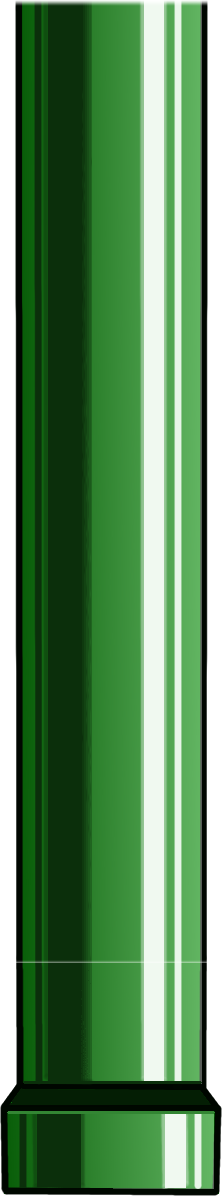
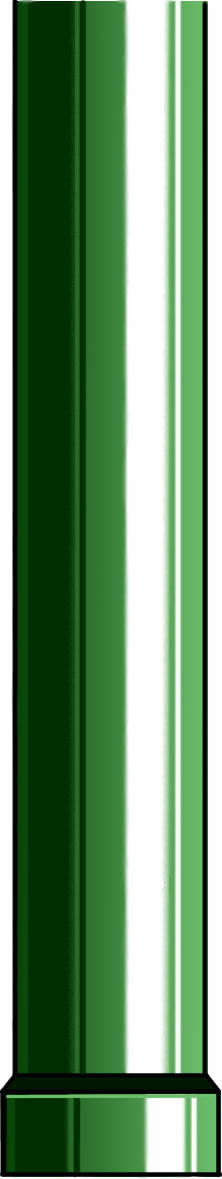
new pipes

diff --git a/app/styles/main.css b/app/styles/main.css
@@ -212,7 +212,7 @@ body {
 
 .Pipes {
   position: absolute;
-  width: 11em;
+  width: 11.2em;
   height: 60em;
   right: 0;
   background-size: cover; }

diff --git a/app/styles/_pipes.scss b/app/styles/_pipes.scss
@@ -1,6 +1,6 @@
 .Pipes{
   position: absolute;
-  width: em(110px);
+  width: em(112px);
   height: em(600px);
   right: 0;
   background-size: cover;
